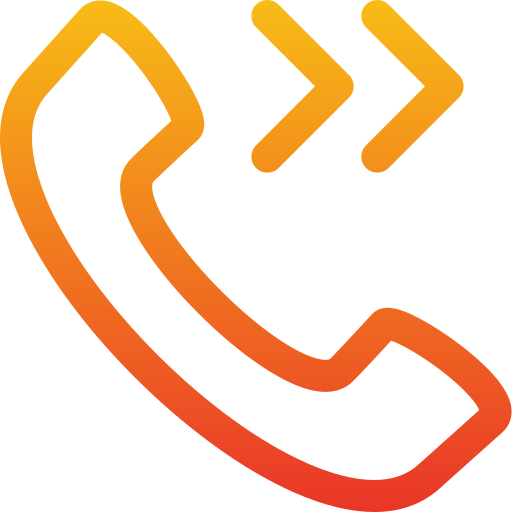
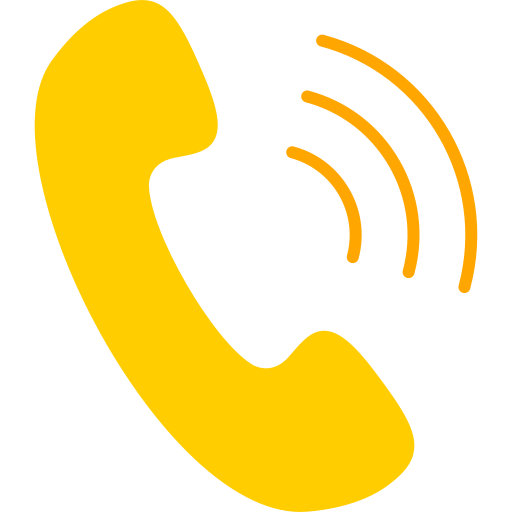
descrição das alterações

diff --git a/src/pages/home/home.jsx b/src/pages/home/home.jsx
@@ -37,47 +37,45 @@ export default function Home(){
                     </h1>
 
         
-                    <div className={styles.spotifyContent}>
-                        <Link className={styles.spotify} >
-                            <h1 className={styles.ouvir}>
+                    <div className={styles.botaoVivo}>
+                        <Link className={styles.btVivo}>                               
                                 <div className={styles.arrowContent}>
                                     <img src={arrow} className={styles.arrow} alt='logo' />
                                 </div>
-                                    Ver agora
-                            </h1>
+                                Ver Joãozinho ao vivo
                         </Link>
                     </div>
                 </div>
 
                 <div className={styles.booking}>
-                    <div className={styles.tel}>
-                        <h1 className={styles.contTit}>
-                            Para contatos
-                        </h1>
-
-                        <Link className={styles.spotify} >
-                            <h1 className={styles.enviar}>
-                                <div className={styles.telContent}>
-                                    <img src={tel} className={styles.tel} alt='logo' />
-                                </div>
-                                Ligar
-                            </h1>
-                        </Link>
+                    <div className={styles.iconeTel}>
+                        <div className={styles.iconeContent}>
+                            <img src={tel} className={styles.icone} alt='tel' />
+                        </div>                        
                     </div>
 
-                    <div className={styles.tel}>
-                        <h1 className={styles.contTit}>
-                            Para concertos
-                        </h1>
-
-                        <Link className={styles.spotify} >
-                            <h1 className={styles.enviar}>
-                                <div className={styles.emailContent}>
-                                    <img src={email} className={styles.email} alt='logo' />
-                                </div>
-                                Enviar
+                    <div className={styles.cardBooking}>
+                        <div className={styles.titContent}>
+                            <h1 className={styles.bokt}>
+                                Contactos para shows
                             </h1>
-                        </Link>
+                        </div>
+                     
+                        <div className={styles.btContet}>
+                            <Link className={styles.btLigar}>
+                                Ligar
+                                 <div className={styles.arrowContent}>
+                                    <img src={arrow} className={styles.arrow} alt='logo' />
+                                </div>
+                            </Link>
+
+                            <Link className={styles.btEnviar}>
+                                Enviar email
+                                <div className={styles.arrowContent}>
+                                    <img src={arrow} className={styles.arrow} alt='logo' />
+                                </div>
+                            </Link>
+                        </div>
                     </div>
                 </div>
 

diff --git a/src/pages/home/home.module.css b/src/pages/home/home.module.css
@@ -80,25 +80,18 @@
    
 }
 
+.botaoVivo{
 
-.spotifyContent{
-
-    margin-top: 10px;
-
+    width: 150px;
 }
 
-.spotify{
-
-    text-decoration: none;
-}
-
-.ouvir{
+.btVivo{
 
     display: flex;
     font-size: 0.8rem;
-    border: 1px solid goldenrod;
-    width: 115px;
-    padding: 2px;
+    text-decoration: none;
+    width: 140px;
+    padding: 6px;
     background-color: goldenrod;
     border-radius: 12px;
     text-transform: uppercase;
@@ -106,12 +99,17 @@
     color: rgb(5, 5, 5);
     text-align: center;
     align-items: center;
+    justify-content: center;
     gap: 5px;
 }
 
+
 .arrowContent{
 
-    width: 20px;
+    display: flex;
+    justify-content: center;
+    align-items: center;
+    width: 30px;
 }
 
 .arrow{
@@ -121,41 +119,100 @@
 
 .booking{
 
-    margin-top: 130px;
+    margin-top: 100px;
     width: 100%;
+    border-radius: 12px;
+    padding: 5px;
+    border: 1px solid rgba(218, 165, 32, 0.38);
     display: grid;
     grid-template-columns: 1fr 1fr;
-    justify-content: space-between;
+    gap: 5px;
     align-items: center;
+    justify-items: start;
+    background-color: rgba(0, 0, 0, 0.67);
 }
 
-.tel{
+.iconeTel{
 
+    margin-left: 10px;
+}
+
+.iconeContent{
+
+    width: 35px;
+    margin: 3px;
+}
+
+.icone{
+    
+    display: flex;
+    justify-content: center;
+    align-items: center;
+    width: 100%;
+}
+
+.cardBooking{
+
+    width: 250px;
     display: grid;
-    grid-template-rows: 1fr 1fr;
-    align-items: center;
-    justify-items: center; 
+    grid-template-rows: 0.8fr 1fr;
 }
 
+.titContent{
+    
+    padding: 5px;
+  
+}
 
-.enviar{
+.bokt{
+
+    font-size: 1rem;
+    color: white;
+    font-weight: 400;
+}
+
+.btContet{
+
+    display:grid;
+    grid-template-columns: 1fr 1fr;
+    padding: 5px;
+}
+
+.btLigar{
 
     display: flex;
     font-size: 0.8rem;
-    border: 1px solid goldenrod;
-    width: 100px;
-    padding: 2px;
-    background-color: rgb(7, 7, 7);
+    text-decoration: none;
+    width: 80px;
+    padding: 6px;
+    background-color: goldenrod;
     border-radius: 12px;
     text-transform: uppercase;
     font-weight: 400;
-    color: goldenrod;;
+    color: rgb(5, 5, 5);
     text-align: center;
     align-items: center;
     justify-content: center;
     gap: 5px;
 }
 
+.btEnviar{
+
+    display: flex;
+    font-size: 0.8rem;
+    text-decoration: none;
+    width: 140px;
+    padding: 6px;
+    background-color: goldenrod;
+    border-radius: 12px;
+    text-transform: uppercase;
+    font-weight: 400;
+    color: rgb(5, 5, 5);
+    text-align: center;
+    align-items: center;
+    justify-content: center;
+    gap: 5px;
+}
 
 .emailContent{
 
@@ -178,20 +235,13 @@
     width: 100%;
 }
 
-.contTit{
-
-    font-size: 0.9rem;
-    color: white;
-    font-weight: 400;
-}
-
 
 .cards{
 
     width: 100%;
     display: grid;
     grid-template-columns: 1fr 1fr 1fr;
-    margin-top: 17px;
+    margin-top: 12px;
     gap: 5px;
 }
 
@@ -202,11 +252,14 @@
     align-items: center;
     justify-items: center;
     padding: 8px;
-    border: 1px solid rgba(218, 165, 32, 0.422);
+    border: 1px solid rgba(241, 149, 29, 0.22);
     width: 105px;
     border-radius: 12px;
     gap: 10px;
     height: auto;
+    background: 
+    linear-gradient(#1a1a1a, #142127) padding-box,
+    linear-gradient(148deg, #f5a52353, #d4af371b) border-box;
 }
 
 .redesLogo{
